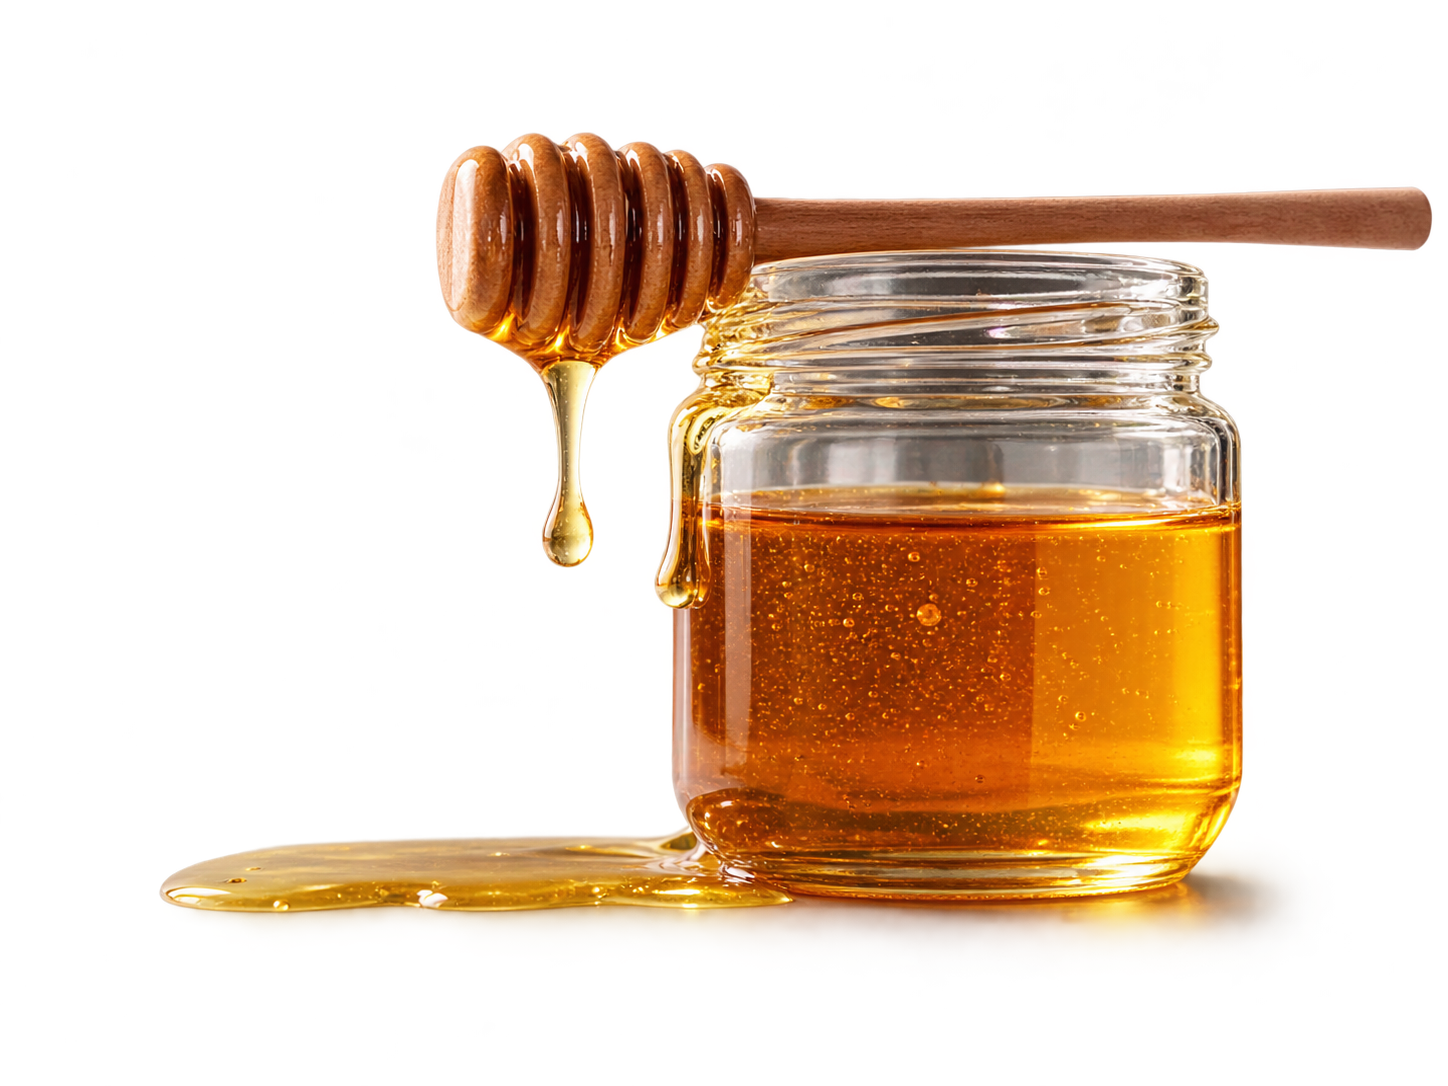
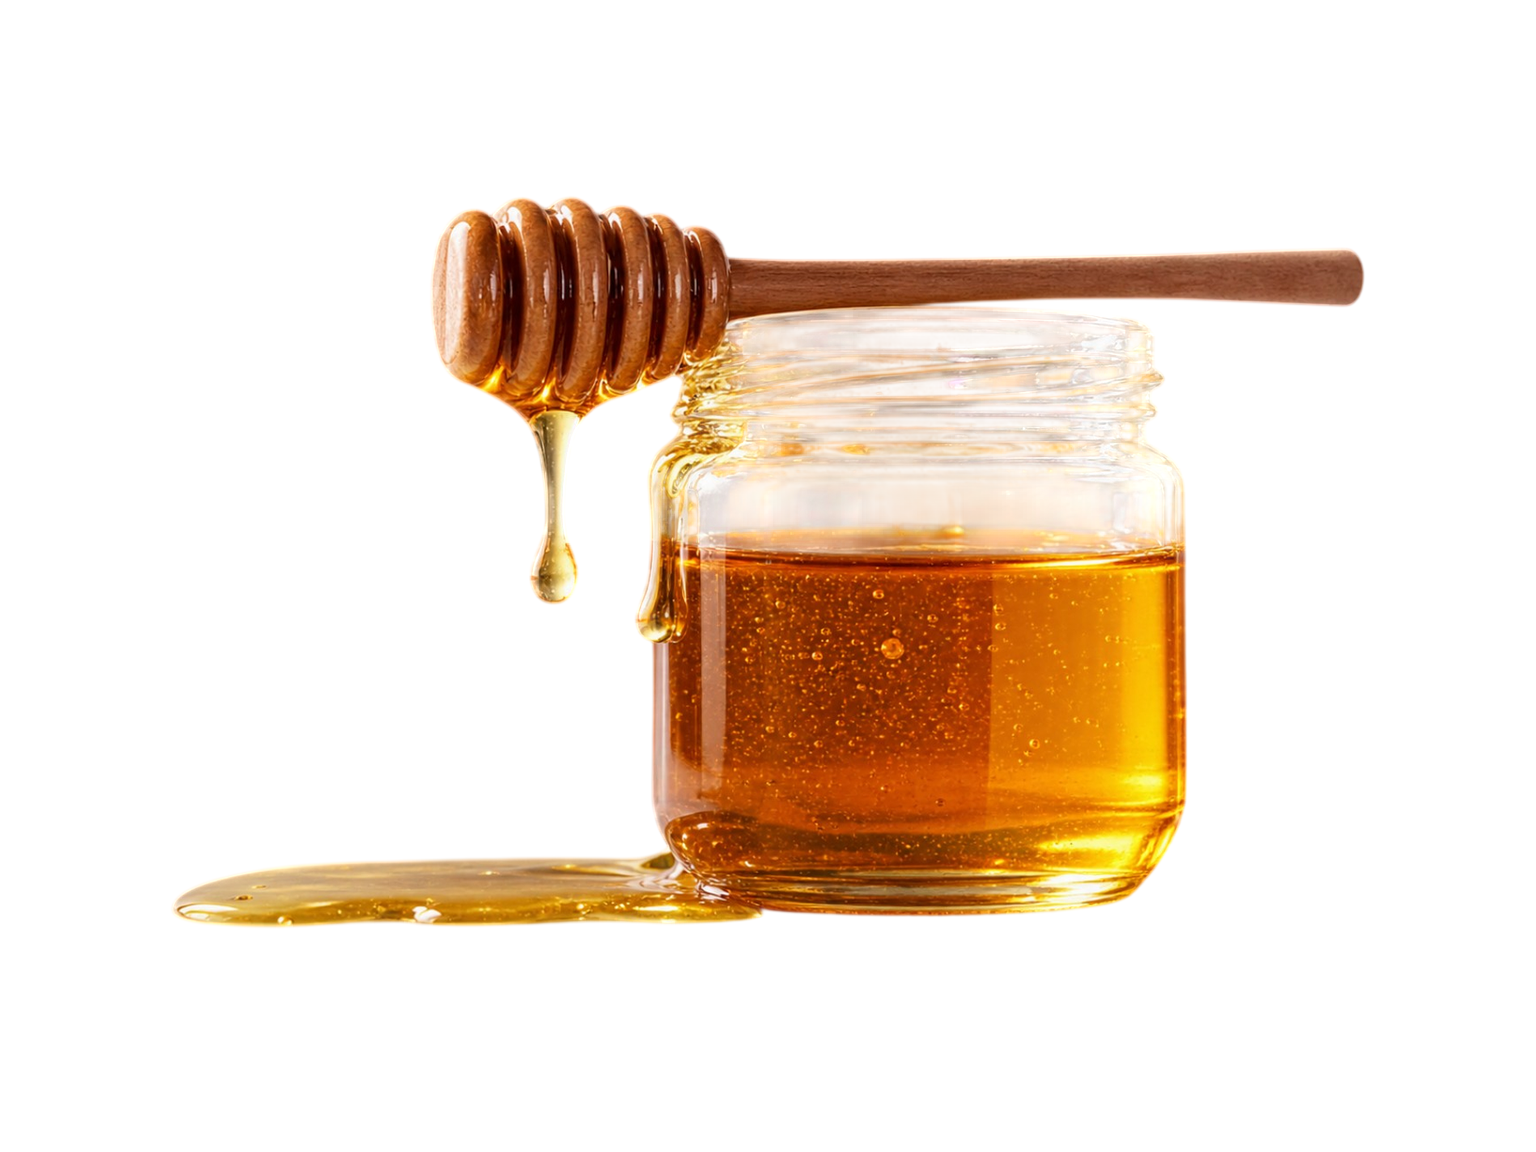
add console manifest, fix few ui bugs, add product image

diff --git a/src/components/admin/AdminDispatchView.module.css b/src/components/admin/AdminDispatchView.module.css
@@ -2225,7 +2225,7 @@
   border-radius: 0;
   display: flex;
   flex-direction: column;
-  gap: 8px;
+  gap: 10px;
 }
 
 .inquiryCardNew {
@@ -2390,19 +2390,21 @@
 
 .inquirySearchInput {
   width: 100%;
-  padding: 10px 36px 10px 36px;
-  background-color: #FFFFFF;
-  border: 1px solid #E5E7EB;
-  border-radius: 0;
+  font-family: var(--font-sans);
+  padding: 8px 10px 8px 32px;
   font-size: 0.82rem;
-  color: #111827;
+  font-weight: 600;
+  color: var(--text-primary);
+  border: 1px solid #D1D5DB;
+  background-color: #F9FAFB;
   outline: none;
-  transition: border-color 0.15s ease, box-shadow 0.15s ease;
+  box-sizing: border-box;
+  transition: border-color 0.15s ease;
 }
 
 .inquirySearchInput:focus {
-  border-color: #111827;
-  box-shadow: 0 0 0 1px #111827;
+  border-color: var(--accent-terracotta);
+  background-color: #FFFFFF;
 }
 
 .inquirySearchClearBtn {
@@ -2437,6 +2439,7 @@
   align-items: center;
   gap: 8px;
   flex-wrap: wrap;
+  margin-bottom: 8px;
 }
 
 .inquiryRefBadgeBtn {
@@ -2469,8 +2472,8 @@
   background-color: #FEF2F2;
   border: 1px solid #FECACA;
   color: #DC2626;
-  padding: 6px 11px;
-  font-size: 0.74rem;
+  padding: 8px 12px;
+  font-size: 0.75rem;
   font-weight: 600;
   cursor: pointer;
   border-radius: 0;
@@ -2495,8 +2498,8 @@
   background-color: #DC2626;
   border: 1px solid #DC2626;
   color: #FFFFFF;
-  padding: 6px 10px;
-  font-size: 0.74rem;
+  padding: 8px 12px;
+  font-size: 0.75rem;
   font-weight: 700;
   cursor: pointer;
   border-radius: 0;
@@ -2514,7 +2517,7 @@
   background-color: #F3F4F6;
   border: 1px solid #D1D5DB;
   color: #4B5563;
-  padding: 6px 7px;
+  padding: 8.5px 7px;
   cursor: pointer;
   border-radius: 0;
   transition: all 0.15s ease;
@@ -2544,6 +2547,7 @@
   font-weight: 600;
   cursor: pointer;
   border-radius: 0;
+  margin-top: 12px;
   transition: all 0.15s ease;
 }
 
@@ -3044,6 +3048,13 @@
   border: 1px solid #D1D5DB;
   background-color: #F9FAFB;
   box-sizing: border-box;
+  outline: none;
+  transition: border-color 0.15s ease;
+}
+
+.creationSearchInput:focus {
+  border-color: var(--accent-terracotta);
+  background-color: #FFFFFF;
 }
 
 .creationSelect {

diff --git a/src/components/about/AboutView.module.css b/src/components/about/AboutView.module.css
@@ -18,7 +18,7 @@
    ======================================================== */
 .storyHeroSection {
   position: relative;
-  padding: clamp(48px, 6vw, 84px) 0 clamp(56px, 7vw, 96px);
+  padding: var(--space-12) 0 var(--space-16);
   background-color: var(--bg-canvas);
   border-bottom: 1px solid var(--border-hairline);
 }
@@ -27,7 +27,7 @@
   display: grid;
   grid-template-columns: 1fr 1.08fr;
   gap: clamp(36px, 5.5vw, 72px);
-  align-items: center;
+  align-items: start;
 }
 
 @media (max-width: 992px) {
@@ -55,17 +55,16 @@
 
 .sectionHeading {
   font-family: var(--font-serif);
-  font-size: clamp(2.2rem, 3.8vw, 3.2rem);
+  font-size: clamp(2.2rem, 4.5vw, 3.6rem);
   font-weight: 400;
   line-height: 1.18;
   color: var(--text-primary);
-  margin-top: var(--space-2);
+  margin-top: var(--space-3);
   margin-bottom: var(--space-2);
   letter-spacing: -0.015em;
 }
 
 .narrativeLead {
-  font-family: var(--font-sans);
   font-size: 1.05rem;
   line-height: 1.85;
   color: var(--text-secondary);
@@ -228,7 +227,7 @@
    SECTION 3: THE 4 SACRED RITUALS (SPOTLIGHT + CAROUSEL)
    ======================================================== */
 .ritualsSection {
-  padding: var(--space-24) 0;
+  padding: var(--space-16) 0;
   background-color: var(--bg-cream);
   border-bottom: 1px solid var(--border-hairline);
   position: relative;
@@ -563,7 +562,7 @@
    SECTION 4: THE TRANSPARENCY LEDGER (FACTORY VS ATELIER)
    ======================================================== */
 .comparisonSection {
-  padding: var(--space-24) 0;
+  padding: var(--space-16) 0;
   border-bottom: 1px solid var(--border-hairline);
 }
 
@@ -678,7 +677,7 @@
    SECTION 5: INGREDIENT SANCTUARY (SQUARE PHOTOS)
    ======================================================== */
 .ingredientSection {
-  padding: var(--space-24) 0;
+  padding: var(--space-16) 0;
   background-color: var(--bg-cream);
   border-bottom: 1px solid var(--border-hairline);
 }

diff --git a/src/components/about/AboutView.tsx b/src/components/about/AboutView.tsx
@@ -218,7 +218,7 @@ export function AboutView() {
               <div className={styles.newspaperCard}>
                 <div className={styles.newspaperHeaderBar}>
                   <span className={styles.newspaperHeaderTag}>REGIONAL PRESS ARCHIVE</span>
-                  <span className={styles.newspaperHeaderMeta}>BENGALURU • EST. 2016</span>
+                  <span className={styles.newspaperHeaderMeta}>BENGALURU</span>
                 </div>
                 <div className={styles.newspaperImageWrapper}>
                   <img
@@ -228,7 +228,7 @@ export function AboutView() {
                   />
                 </div>
                 <p className={styles.newspaperCaption}>
-                  Original regional press article featuring founder Alankrutha and Good Fills&apos; homemade philosophy.
+                  Original regional press article featuring founder Alankrutha and<br></br>Good Fills&apos; homemade philosophy.
                 </p>
               </div>
             </motion.div>

diff --git a/src/components/navigation/SiteHeader.tsx b/src/components/navigation/SiteHeader.tsx
@@ -195,7 +195,7 @@ export function SiteHeader() {
                   </Link>
                 </span>
                 <span className={styles.announcementMobile}>
-                  ✈ <strong>Worldwide Delivery</strong> —{' '}
+                  ✈ <strong>International Delivery</strong> —{' '}
                   <Link
                     href="/shipping-policy#international"
                     className={styles.announcementLink}

diff --git a/src/components/common/InternationalDeliveryModal.tsx b/src/components/common/InternationalDeliveryModal.tsx
@@ -145,7 +145,7 @@ export function InternationalDeliveryModal({ isOpen: propIsOpen, onClose: propOn
         <div className={styles.cardHeader}>
           <span className={styles.badge}>
             <Globe size={10} />
-            Worldwide Delivery
+            International Delivery
           </span>
 
           <button

diff --git a/src/app/console/layout.tsx b/src/app/console/layout.tsx
@@ -1,0 +1,13 @@
+import type { Metadata } from 'next';
+
+export const metadata: Metadata = {
+  manifest: '/console/manifest.json',
+};
+
+export default function ConsoleLayout({
+  children,
+}: {
+  children: React.ReactNode;
+}) {
+  return children;
+}
